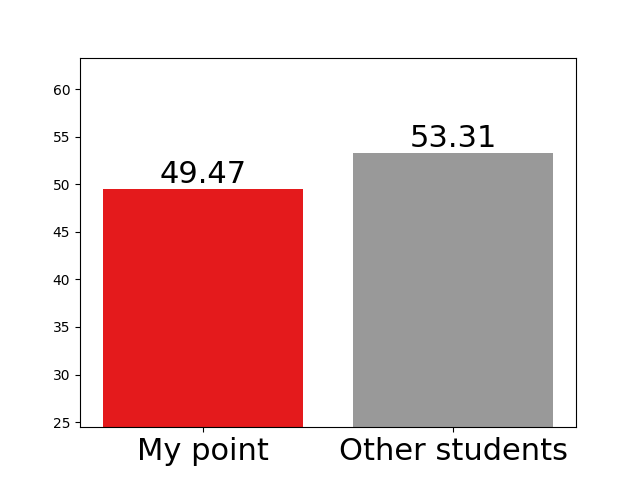
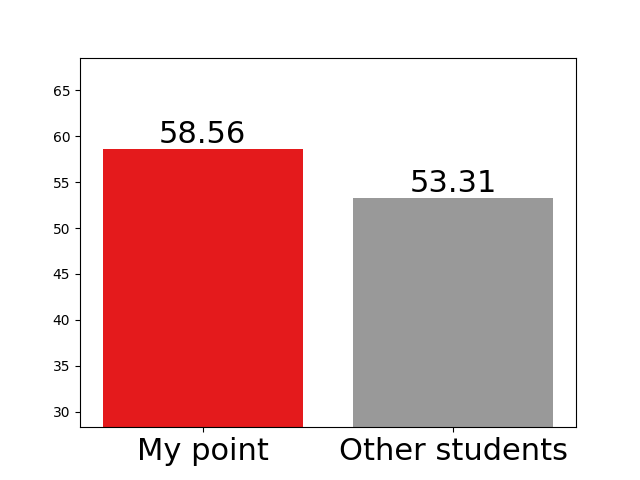
상위 %만 정수형

diff --git a/templates/result.html b/templates/result.html
@@ -358,7 +358,7 @@
                 </div>
                 <div class="total-evaluation">
                     <div class="evaluation-title">
-                        당신의 점수는 : 
+                        당신의 평균 점수는 : 
                     </div>
                     <div class="evaluation-text">
                         {{total_mean[0]}}점

diff --git a/app.py b/app.py
@@ -92,25 +92,28 @@ def result():
         
         logical_hub_points_list.sort(); reason_hub_points_list.sort(); persuasive_hub_points_list.sort(); novelty_hub_points_list.sort(); total_score_per_student.sort()
         
+        # 순위 계산할 때는 round()가 적용되면 안되고 순위계산 후 보여줄 때 round()가 계산되어야 한다.
         my_logical_grade = (len(logical_hub_points_list) - logical_hub_points_list.index(logical_point)) / len(logical_hub_points_list) * 100
         my_reason_grade = (len(reason_hub_points_list) - reason_hub_points_list.index(reason_point)) / len(reason_hub_points_list) * 100
         my_persuasive_grade = (len(persuasive_hub_points_list) - persuasive_hub_points_list.index(persuasive_point)) / len(persuasive_hub_points_list) * 100
         my_novelty_grade = (len(novelty_hub_points_list) - novelty_hub_points_list.index(novelty_point)) / len(novelty_hub_points_list) * 100
         my_total_grade = (len(total_score_per_student) - total_score_per_student.index(my_point_mean)) / len(total_score_per_student) * 100
-        my_total_grade = round(my_total_grade,2)
+        my_total_grade = round(my_total_grade)
         
         grade_list = [my_logical_grade, my_reason_grade, my_persuasive_grade, my_novelty_grade]     
-        grade_list = [round(grade,2) for grade in grade_list]
+        grade_list = [round(grade) for grade in grade_list]
         
+        
+        # my_point_list = list(map(round,my_point_list))
         
         # 그래프 그리고 저장하기
         
         font_size = 22
         
-        pic.graph(mode='logical', essay_point=logical_point, mean=logical_mean, font_size=font_size)
-        pic.graph(mode='reason', essay_point=reason_point, mean=reason_mean, font_size=font_size)
-        pic.graph(mode='persuasive', essay_point=persuasive_point, mean=persuasive_mean, font_size=font_size)
-        pic.graph(mode='novelty', essay_point=novelty_point, mean=novelty_mean, font_size=font_size)
+        pic.graph(mode='logical', essay_point=my_point_list[0], mean=logical_mean, font_size=font_size)
+        pic.graph(mode='reason', essay_point=my_point_list[1], mean=reason_mean, font_size=font_size)
+        pic.graph(mode='persuasive', essay_point=my_point_list[2], mean=persuasive_mean, font_size=font_size)
+        pic.graph(mode='novelty', essay_point=my_point_list[3], mean=novelty_mean, font_size=font_size)
         pic.total_graph(mean=total_mean, my_points=my_point_list, hub_points=hub_points)
         
         return render_template("result.html", essay=essay, my_points=my_point_list, \
